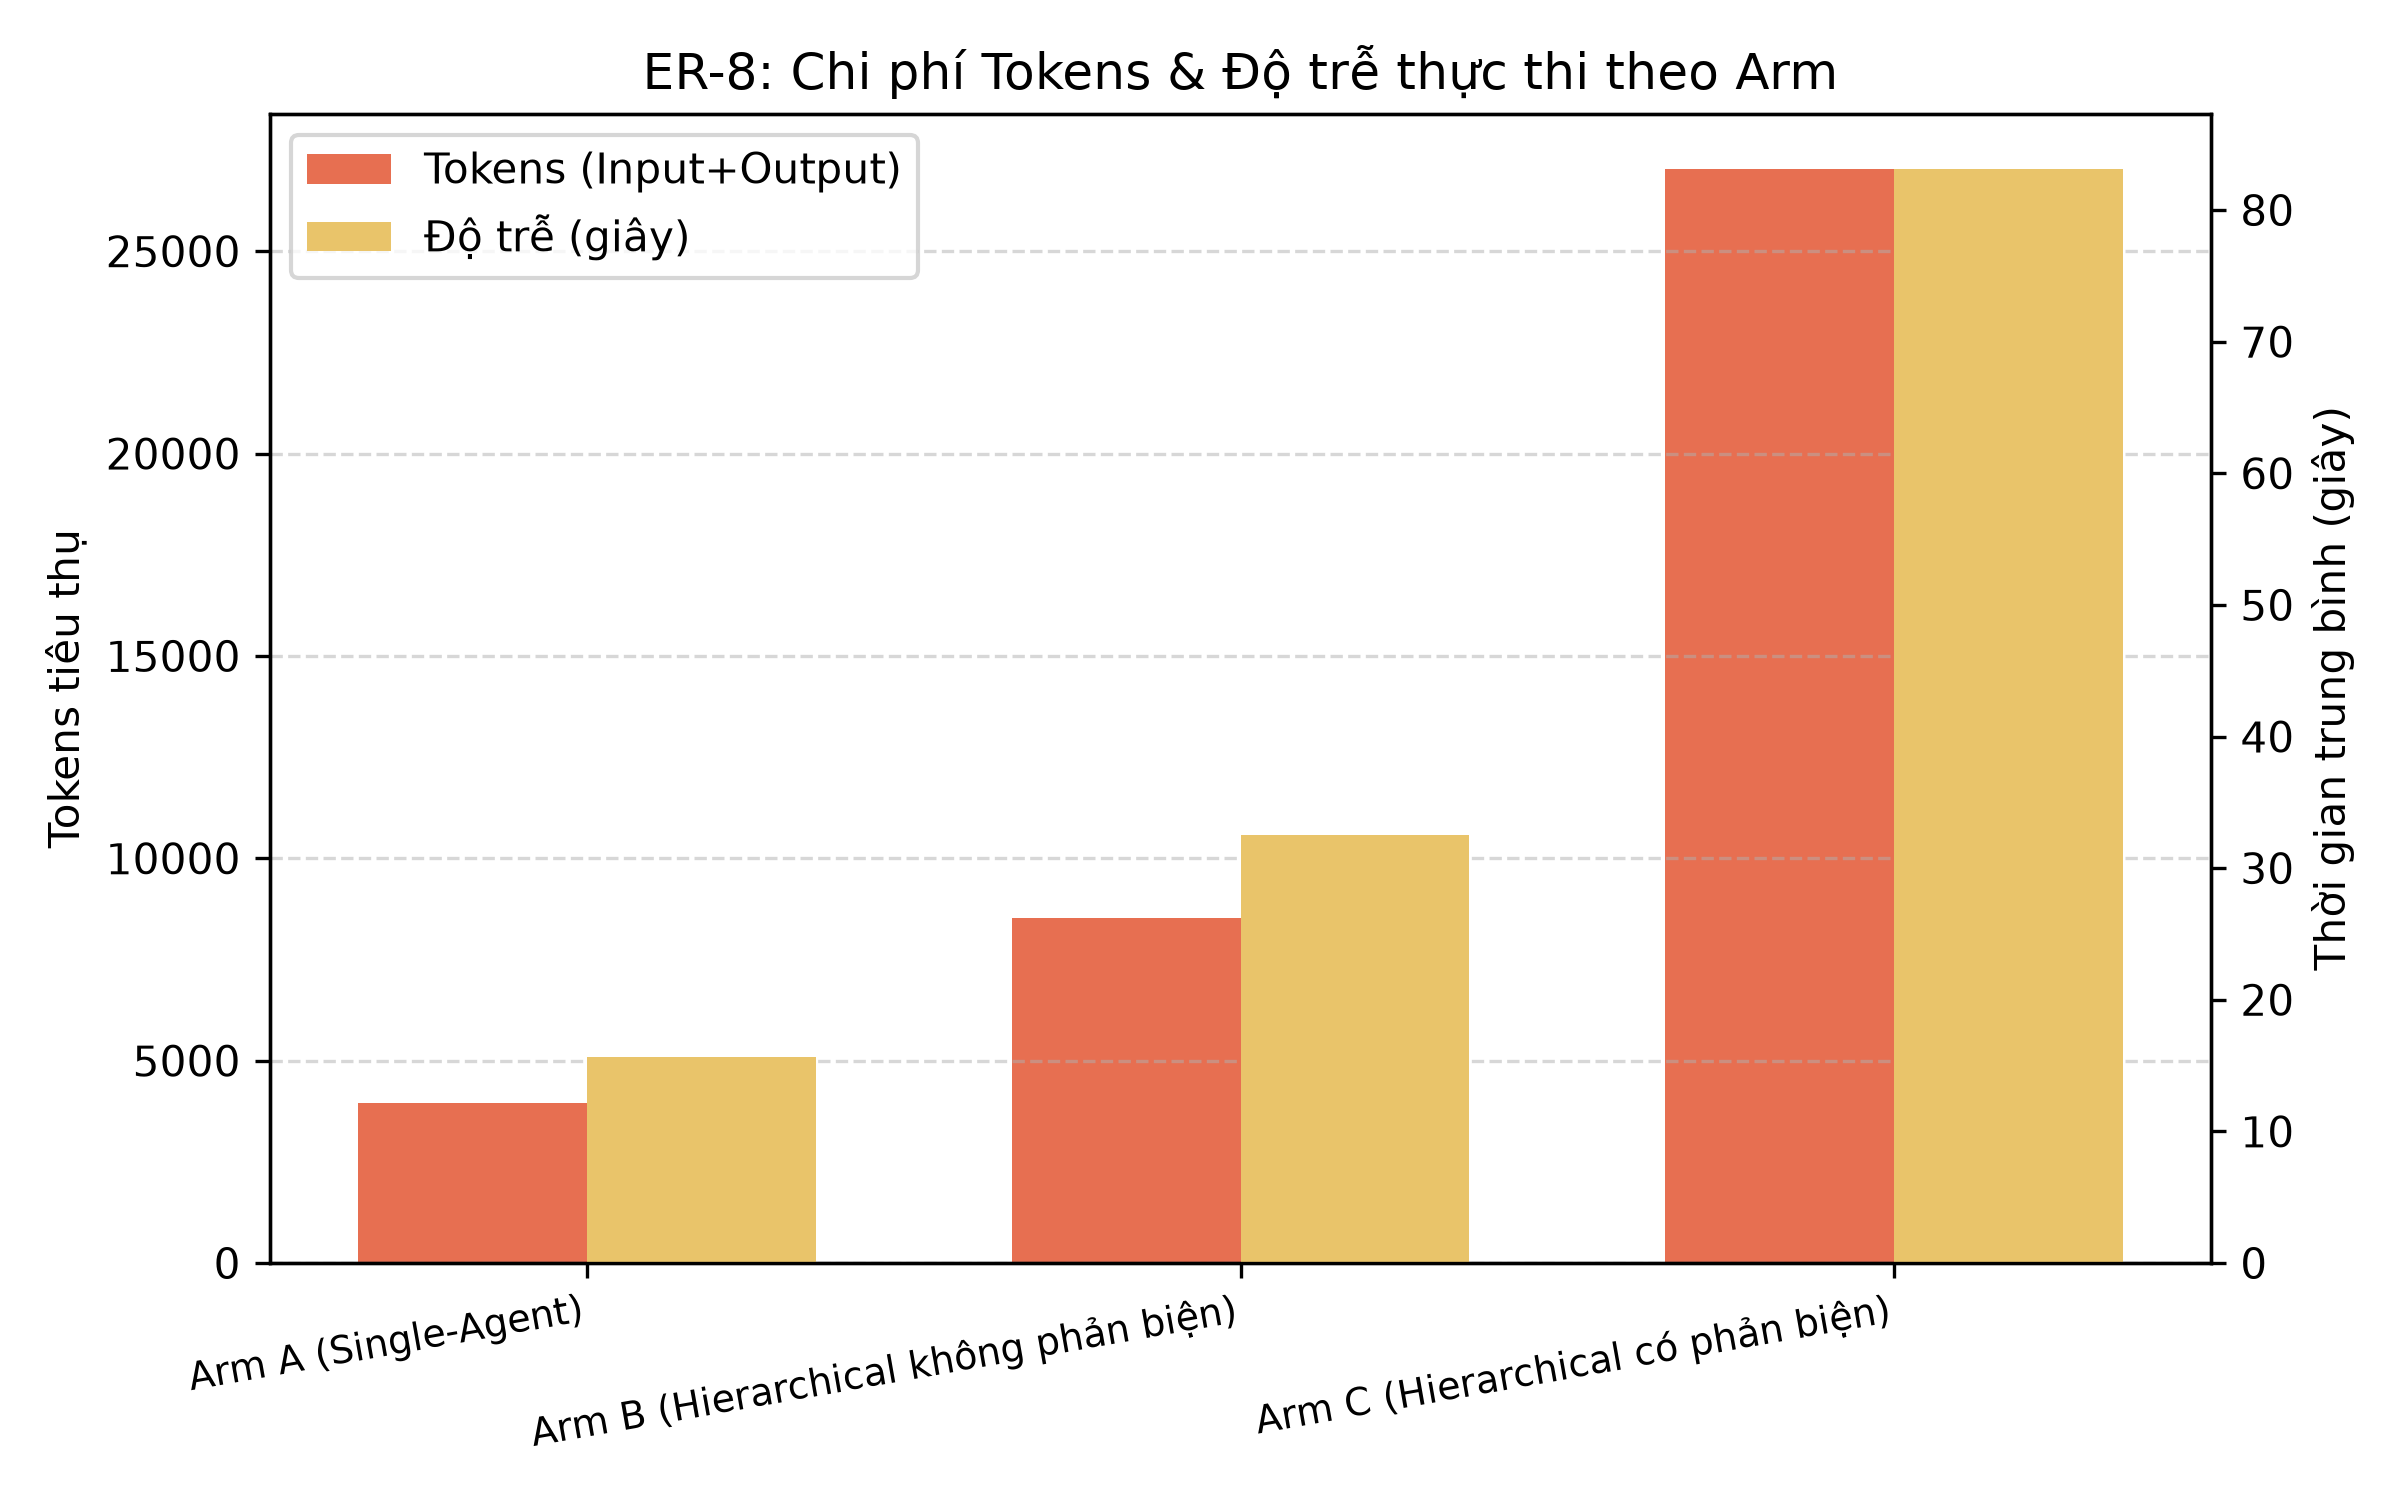
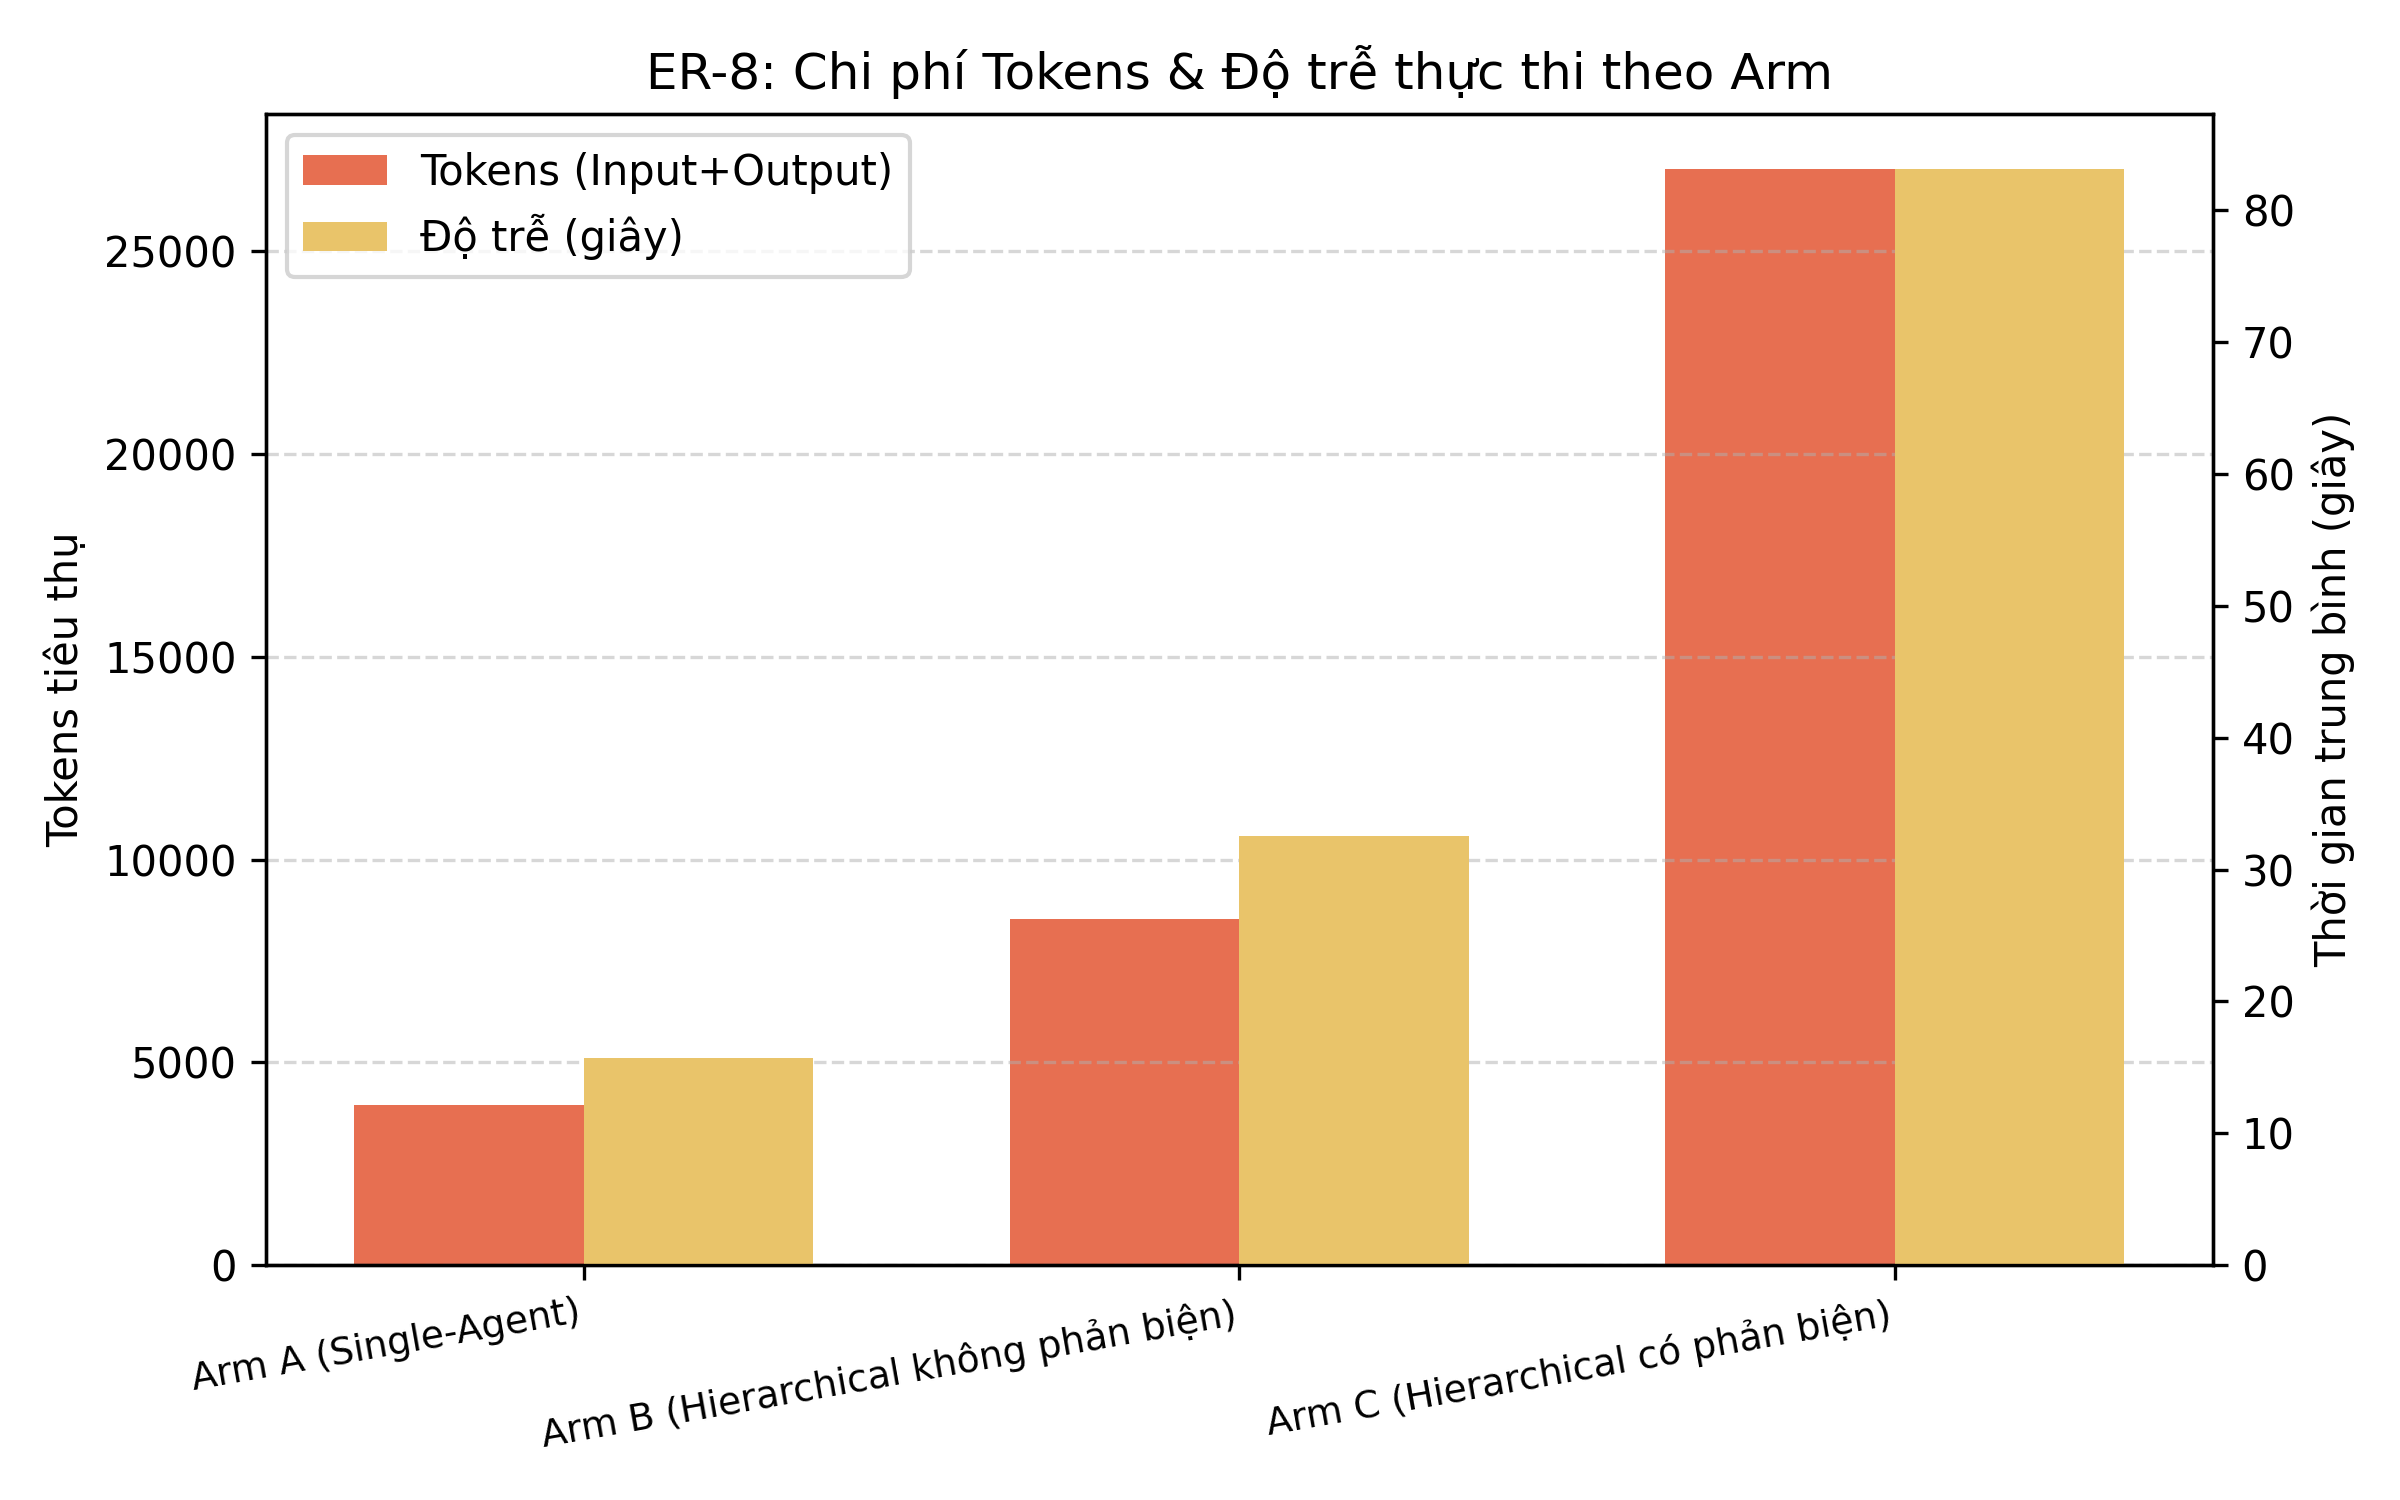
fix(data): [SCOREFIX-1] scorer counts dropped sentences and fallbacks (#147)

diff --git a/tests/test_er9_harness.py b/tests/test_er9_harness.py
@@ -341,6 +341,102 @@ class TestER9EvaluationHarness(unittest.TestCase):
         self.assertTrue(callable(getattr(w_score, "main", None)))
         self.assertTrue(callable(getattr(w_analyze, "main", None)))
 
+    def test_09_scorer_dropped_sentences_and_fallback_flag(self) -> None:
+        """Scorer counts dropped sentences from sentences_dropped list, supports old key, and tracks fallbacks."""
+        cov_payload = json.loads(self.expected_coverage_path.read_text(encoding="utf-8"))
+        cov_map = {t["task_id"]: t for t in cov_payload.get("tasks", [])}
+
+        def make_run(
+            audit: dict | None,
+            task_id: str = "T01",
+            status: str = "completed",
+        ) -> dict:
+            resp: dict = {"status": status}
+            if audit is not None:
+                resp["narrative_audit"] = audit
+            return {
+                "run_id": f"test-run-{task_id}",
+                "task_id": task_id,
+                "arm": "hierarchical_with_critique",
+                "rep": 0,
+                "order": 1,
+                "status": status,
+                "plan_hash": "a" * 64,
+                "tokens": {"input_tokens": 10, "output_tokens": 10, "total_tokens": 20},
+                "response": resp,
+            }
+
+        # 1. Primary key: sentences_dropped as list of 3, sentences_checked 10 -> discard rate 0.3
+        run_primary = make_run({
+            "sentences_checked": 10,
+            "sentences_accepted": 7,
+            "sentences_dropped": [{"sentence_id": "d1"}, {"sentence_id": "d2"}, {"sentence_id": "d3"}],
+            "composition_source": "deterministic_fallback",
+        })
+        score_primary = score_single_run(run_primary, cov_map, {})
+        self.assertEqual(score_primary["sentences_proposed"], 10)
+        self.assertEqual(score_primary["sentences_accepted"], 7)
+        self.assertEqual(score_primary["sentences_discarded"], 3)
+        self.assertAlmostEqual(score_primary["discard_rate"], 0.3, places=4)
+        self.assertEqual(score_primary["composition_fallback"], 1)
+
+        # 2. Old key: dropped_sentences as list of 3, sentences_checked 10 -> discard rate 0.3
+        run_old_list = make_run({
+            "sentences_checked": 10,
+            "sentences_accepted": 7,
+            "dropped_sentences": [{"sentence_id": "d1"}, {"sentence_id": "d2"}, {"sentence_id": "d3"}],
+            "composition_source": "model",
+        })
+        score_old_list = score_single_run(run_old_list, cov_map, {})
+        self.assertEqual(score_old_list["sentences_discarded"], 3)
+        self.assertAlmostEqual(score_old_list["discard_rate"], 0.3, places=4)
+        self.assertEqual(score_old_list["composition_fallback"], 0)
+
+        # 3. Old key with integer: dropped_sentences = 2
+        run_old_int = make_run({
+            "sentences_checked": 10,
+            "sentences_accepted": 8,
+            "dropped_sentences": 2,
+            "composition_source": "model",
+        })
+        score_old_int = score_single_run(run_old_int, cov_map, {})
+        self.assertEqual(score_old_int["sentences_discarded"], 2)
+        self.assertAlmostEqual(score_old_int["discard_rate"], 0.2, places=4)
+
+        # 4. Refused / no-audit run: composition_fallback is blank ("")
+        run_refused = make_run(None, task_id="R1", status="error")
+        score_refused = score_single_run(run_refused, cov_map, {})
+        self.assertEqual(score_refused["composition_fallback"], "")
+        self.assertEqual(score_refused["sentences_discarded"], 0)
+        self.assertEqual(score_refused["discard_rate"], 0.0)
+
+        # 5. Analyzer computes mean_composition_fallback and formats in RESULTS.md
+        scores_csv = self.output_dir / "scores_fallback_test.csv"
+        rows = [score_primary, score_old_list, score_refused]
+        scores_csv.parent.mkdir(parents=True, exist_ok=True)
+        with open(scores_csv, "w", newline="", encoding="utf-8") as f:
+            writer = csv.DictWriter(f, fieldnames=list(score_primary.keys()))
+            writer.writeheader()
+            writer.writerows(rows)
+
+        analysis_dir = self.output_dir / "analysis_fallback"
+        results_md = self.output_dir / "RESULTS_fallback.md"
+        analyze_evaluation(
+            scores_csv=scores_csv,
+            output_dir=analysis_dir,
+            results_md=results_md,
+            is_er9=True,
+        )
+
+        with open(analysis_dir / "arm_summary.csv", "r", encoding="utf-8") as f:
+            summary = list(csv.DictReader(f))
+        arm_c = next(s for s in summary if s["arm"] == "hierarchical_with_critique")
+        # 1 fallback out of 2 answered runs = 0.5 (refused run with blank is skipped)
+        self.assertEqual(float(arm_c["mean_composition_fallback"]), 0.5)
+
+        md_text = results_md.read_text(encoding="utf-8")
+        self.assertIn("Composition Fallback", md_text)
+
 
 if __name__ == "__main__":
     unittest.main()

diff --git a/scripts/er8_score.py b/scripts/er8_score.py
@@ -381,10 +381,47 @@ def score_single_run(
 
     # Narrative quality
     narrative_audit = response.get("narrative_audit") or {}
-    sentences_proposed = narrative_audit.get("sentences_checked") or len(sentences)
-    sentences_accepted = narrative_audit.get("sentences_accepted") or sents_accepted_count
-    sentences_discarded = len(narrative_audit.get("dropped_sentences") or []) if "dropped_sentences" in narrative_audit else sents_discarded_count
+    has_audit = bool(response.get("narrative_audit"))
+
+    if "sentences_checked" in narrative_audit and narrative_audit["sentences_checked"] is not None:
+        try:
+            sentences_proposed = int(narrative_audit["sentences_checked"])
+        except (ValueError, TypeError):
+            sentences_proposed = len(sentences)
+    else:
+        sentences_proposed = len(sentences)
+
+    if "sentences_accepted" in narrative_audit and narrative_audit["sentences_accepted"] is not None:
+        try:
+            sentences_accepted = int(narrative_audit["sentences_accepted"])
+        except (ValueError, TypeError):
+            sentences_accepted = sents_accepted_count
+    else:
+        sentences_accepted = sents_accepted_count
+
+    raw_dropped = None
+    if "sentences_dropped" in narrative_audit:
+        raw_dropped = narrative_audit["sentences_dropped"]
+    elif "dropped_sentences" in narrative_audit:
+        raw_dropped = narrative_audit["dropped_sentences"]
+
+    if raw_dropped is not None:
+        if isinstance(raw_dropped, list):
+            sentences_discarded = len(raw_dropped)
+        else:
+            try:
+                sentences_discarded = int(raw_dropped)
+            except (ValueError, TypeError):
+                sentences_discarded = 0
+    else:
+        sentences_discarded = sents_discarded_count
+
     discard_rate = (sentences_discarded / sentences_proposed) if sentences_proposed > 0 else 0.0
+
+    if has_audit:
+        composition_fallback = 1 if narrative_audit.get("composition_source") == "deterministic_fallback" else 0
+    else:
+        composition_fallback = None
 
     # Cross-level findings
     cross_level_critique = response.get("cross_level_critique") or []
@@ -424,6 +461,7 @@ def score_single_run(
         "sentences_accepted": sentences_accepted,
         "sentences_discarded": sentences_discarded,
         "discard_rate": round(discard_rate, 4),
+        "composition_fallback": composition_fallback if composition_fallback is not None else "",
         "cross_level_findings_count": cross_level_findings_count,
         "duration_ms": duration_ms,
         "model_calls": model_calls,

diff --git a/.agent/memory/lessons-learned.md b/.agent/memory/lessons-learned.md
@@ -824,4 +824,22 @@ In user queries, common Vietnamese dictionary terms, ministry titles, universiti
 - `"Đầu tư và phát triển số của TCB"` matched BID because of bare `"đầu tư và phát triển"` (digital investment & development).
 - **Rule**: Distinctive brand names (`Vietcombank`, `VCB`, `BIDV`, `BID`, `VietinBank`, `CTG`, `Techcombank`, `TCB`, `MBBank`, `MB Bank`, `MB`, `VPBank`, `VPB`, `ACB`, `Sacombank`, `STB`, `SHB`, `HDBank`, `HDB`, `VIB`, `OCB`, `TPBank`, `MSB`, `LPBank`, `SeABank`, `Eximbank`) are permitted as bare terms. Non-distinctive, polysemous phrases (`công thương`, `ngoại thương`, `đầu tư và phát triển`, `kỹ thương`, `quân đội`, `sài gòn - hà nội`, `việt nam thịnh vượng`, `á châu`, `sài gòn thương tín`, `phương đông`, `tiên phong`, `hàng hải`, `đông nam á`, `xuất nhập khẩu`) MUST strictly require an explicit bank prefix (`ngân hàng`, `nh`, `ngân hàng tmcp`, `nh tmcp`, `nhtmcp`).
 
+---
+
+## [LESSON-043] Evaluation Scorer Metric Extraction Must Match Runtime Audit DTO Schema (`sentences_dropped` vs `dropped_sentences`)
+
+- Date: 2026-10-05
+- Scope: `scripts/er8_score.py`, `scripts/er8_analyze.py`, `src/thesis_api/adaptive_runtime.py`, `tests/test_er9_harness.py`
+- Status: ACTIVE
+
+### 1. Context & Root Cause
+In evaluation scoring (`scripts/er8_score.py`), `sentences_discarded` was queried from `narrative_audit.get("dropped_sentences")`. However, the Pydantic schema in `src/thesis_api/adaptive_runtime.py` and `src/thesis_api/schemas.py` defines this field as `NarrativeAuditDTO.sentences_dropped: List[SentenceDroppedDTO]`.
+Because `"dropped_sentences"` was never found in real run files, the scorer silently fell back to re-verifying the final report spec (`sents_discarded_count`), which yielded 0 because the final report spec contains only already-accepted sentences. Consequently, both ER-8 and ER-9 reported 0.0% sentence discard rates across all arms.
+
+### 2. Resolution & Fallback Tracking
+1. **Schema-Grounded Extraction with Legacy Fallback**:
+   The scorer now inspects `sentences_dropped` first, falling back to `dropped_sentences` for backwards compatibility with older run files/mocks, supporting both list representations and integer counts.
+2. **Composition Fallback Metric**:
+   When report spec validation fails during runtime sweeps, the pipeline reverts to deterministic template layout (`composition_source == "deterministic_fallback"`). The scorer now reports `composition_fallback = 1` for such runs (0 for normal runs, blank `None` for refused/un-audited runs), and `er8_analyze.py` exports its mean in `arm_summary.csv` and Chapter 5 `RESULTS.md` summary tables.
+
 
